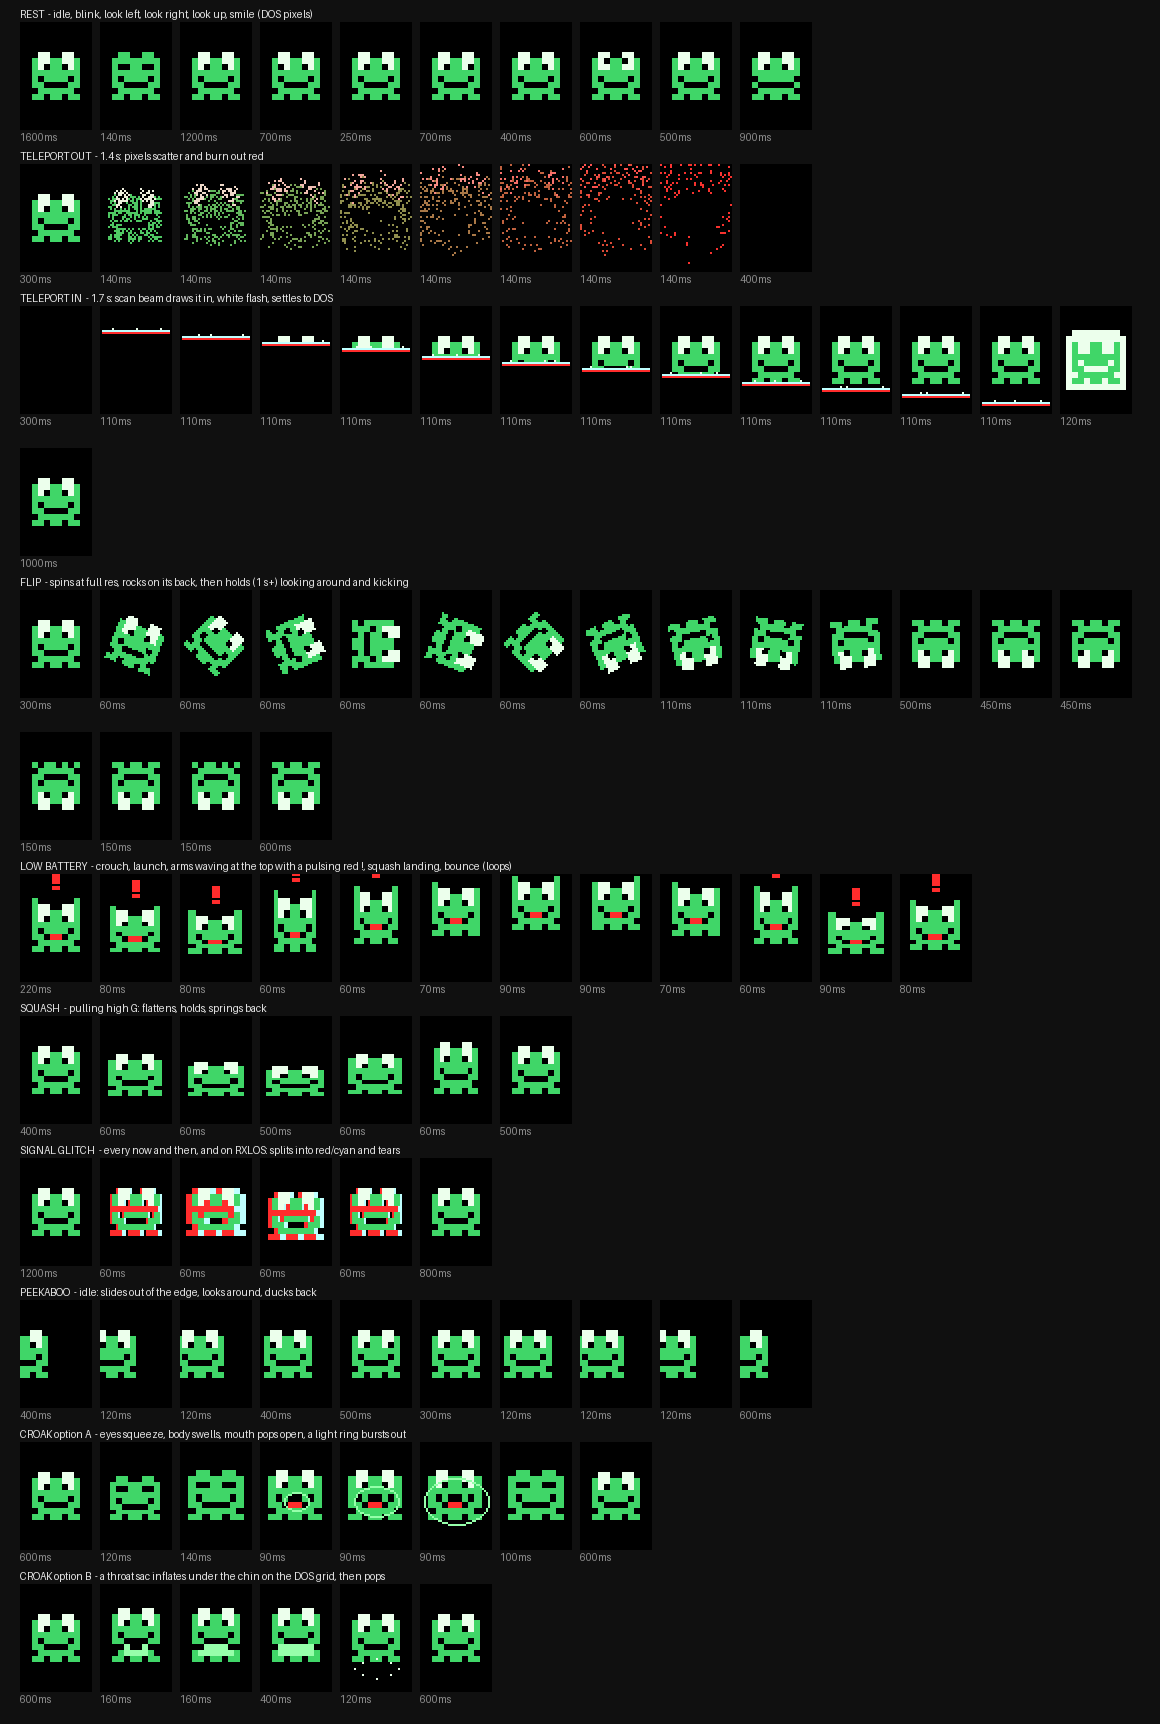
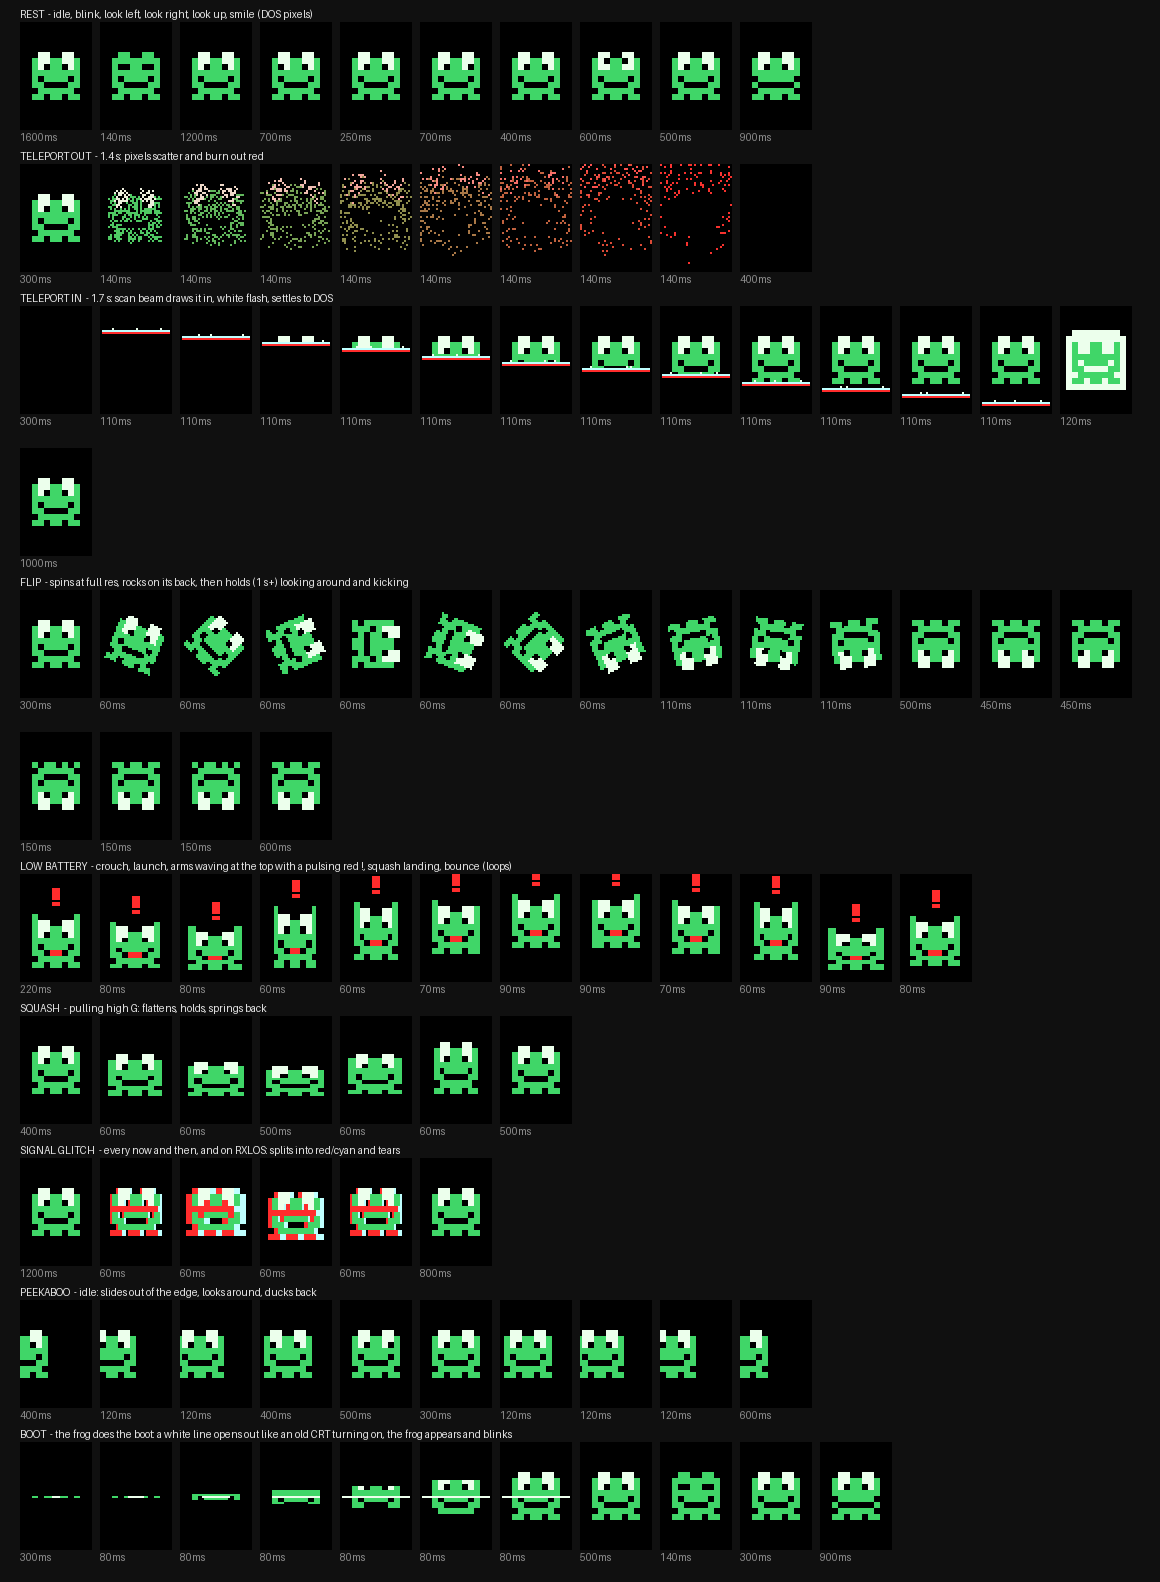
Frog set: boot (CRT), no croak, low-battery jump fits the cell, showreel GIF (72 unique glyphs)
Claude-Session: https://claude.ai/code/session_01QLw2wTDsv1R89V6xnwgJwy

diff --git a/tools/frog_anim.py b/tools/frog_anim.py
@@ -67,6 +67,24 @@ def peek(t, look=None):
     return im
 
 
+def crt(t):
+    """CRT power-on: a bright line at the frog's middle opens up to reveal it"""
+    im = Image.new("RGBA", (W, H), (0, 0, 0, 0))
+    s_, d_ = IDLE.load(), im.load()
+    mid, half = 27, int(t * 16)
+    for y in range(H):
+        for x in range(W):
+            if abs(y - mid) <= half and s_[x, y][3]:
+                d_[x, y] = s_[x, y]
+    if t < 1:
+        dr = ImageDraw.Draw(im)
+        w = int(17 * min(1.0, 0.15 + t * 3))
+        dr.line([18 - w, mid, 17 + w, mid], fill=WHITE)
+        if t < 0.08:
+            dr.point((18, mid), fill=WHITE)
+    return im
+
+
 def croak_a(k):
     """A: eyes squeeze shut, body swells, mouth pops open and a light ring bursts out"""
     if k == 0:
@@ -112,11 +130,12 @@ ANIMS = {
              [(rot(FLIPPED, 12), 110), (rot(FLIPPED, -9), 110), (rot(FLIPPED, 5), 110), (FLIPPED, 500), (FLIP_L, 450), (FLIP_R, 450),
               (KICK, 150), (FLIPPED, 150), (KICK, 150), (FLIPPED, 600)]),
     "low_battery": ("LOW BATTERY  - crouch, launch, arms waving at the top with a pulsing red !, squash landing, bounce (loops)",
-                    [(bang(ARMS, False), 220), (bang(scale(ARMS, 1.06, 0.9), False), 80), (bang(scale(ARMS, 1.12, 0.8), False), 80),
-                     (bang(scale(ARMS, 0.9, 1.15), False), 60), (bang(shift(scale(ARMS, 0.94, 1.08), -4), False), 60),
-                     (bang(shift(ARMS_L, -8), True), 70), (bang(shift(ARMS, -11), True), 90), (bang(shift(ARMS_R, -11), True), 90),
-                     (bang(shift(ARMS_L, -8), True), 70), (bang(shift(scale(ARMS, 0.94, 1.08), -4), False), 60),
-                     (bang(scale(ARMS, 1.15, 0.78), False), 90), (bang(shift(scale(ARMS, 1.05, 0.95), -1), False), 80)]),
+                    [(bang(shift(ARMS, 8), False), 220), (bang(shift(scale(ARMS, 1.06, 0.9), 8), False), 80),
+                     (bang(shift(scale(ARMS, 1.12, 0.8), 8), False), 80), (bang(shift(scale(ARMS, 0.9, 1.15), 8), False), 60),
+                     (bang(shift(scale(ARMS, 0.94, 1.08), 4), False), 60), (bang(shift(ARMS_L, 1), True), 70),
+                     (bang(shift(ARMS, -2), True), 90), (bang(shift(ARMS_R, -2), True), 90), (bang(shift(ARMS_L, 1), True), 70),
+                     (bang(shift(scale(ARMS, 0.94, 1.08), 4), False), 60), (bang(shift(scale(ARMS, 1.15, 0.78), 8), False), 90),
+                     (bang(shift(scale(ARMS, 1.05, 0.95), 7), False), 80)]),
     "squash": ("SQUASH  - pulling high G: flattens, holds, springs back",
                [(IDLE, 400), (scale(IDLE, 1.1, 0.85), 60), (scale(IDLE, 1.2, 0.7), 60), (scale(IDLE, 1.24, 0.64), 500),
                 (scale(IDLE, 1.1, 0.88), 60), (scale(IDLE, 0.94, 1.08), 60), (IDLE, 500)]),
@@ -126,10 +145,9 @@ ANIMS = {
     "peekaboo": ("PEEKABOO  - idle: slides out of the edge, looks around, ducks back",
                  [(peek(0.0), 400), (peek(0.25), 120), (peek(0.5), 120), (peek(0.75, LOOK_L), 400), (peek(1.0, LOOK_R), 500),
                   (peek(1.0, IDLE), 300), (peek(0.75), 120), (peek(0.5), 120), (peek(0.2), 120), (peek(0.0), 600)]),
-    "croak_a": ("CROAK option A  - eyes squeeze, body swells, mouth pops open, a light ring bursts out",
-                [(croak_a(k), ms) for k, ms in ((0, 600), (1, 120), (2, 140), (3, 90), (4, 90), (5, 90), (2, 100), (0, 600))]),
-    "croak_b": ("CROAK option B  - a throat sac inflates under the chin on the DOS grid, then pops",
-                [(croak_b(k), ms) for k, ms in ((0, 600), (1, 160), (2, 160), (3, 400), (4, 120), (5, 600))]),
+    "boot": ("BOOT  - the frog does the boot: a white line opens out like an old CRT turning on, the frog appears and blinks",
+             [(crt(t), ms) for t, ms in ((0.0, 300), (0.04, 80), (0.1, 80), (0.2, 80), (0.35, 80), (0.55, 80), (0.8, 80), (1.0, 500))] +
+             [(BLINK, 140), (IDLE, 300), (SMILE, 900)]),
 }
 
 

diff --git a/tools/frog_showreel.py b/tools/frog_showreel.py
@@ -1,0 +1,32 @@
+#!/usr/bin/env python3
+"""One labelled GIF that plays the whole frog set back to back, and a count of unique frames."""
+import hashlib
+import os
+import sys
+from PIL import Image, ImageDraw
+
+sys.path.insert(0, os.path.dirname(os.path.abspath(__file__)))
+import frog_anim as A  # noqa: E402
+from frog_dos import W, H  # noqa: E402
+
+ORDER = [("boot", 1), ("rest", 1), ("teleport_out", 1), ("teleport_in", 1), ("flip", 1), ("low_battery", 3),
+         ("squash", 1), ("glitch", 1), ("peekaboo", 1)]
+S = 5
+LABEL = 34
+frames, durs, unique = [], [], set()
+for key, loops in ORDER:
+    title, fr = A.ANIMS[key]
+    name = title.split("  -")[0]
+    for _ in range(loops):
+        for im, ms in fr:
+            cell = Image.new("RGB", (W, H), (0, 0, 0))
+            cell.paste(im, (0, 0), im)
+            unique.add(hashlib.md5(cell.tobytes()).hexdigest())
+            canvas = Image.new("RGB", (W * S, H * S + LABEL), (16, 16, 16))
+            canvas.paste(cell.resize((W * S, H * S), Image.NEAREST), (0, LABEL))
+            ImageDraw.Draw(canvas).text((8, 10), name, fill=(120, 240, 150))
+            frames.append(canvas)
+            durs.append(ms)
+out = sys.argv[1]
+frames[0].save(out, save_all=True, append_images=frames[1:], duration=durs, loop=0, disposal=2)
+print("showreel", len(frames), "frames,", round(sum(durs) / 1000, 1), "s,", len(unique), "unique glyphs needed")
